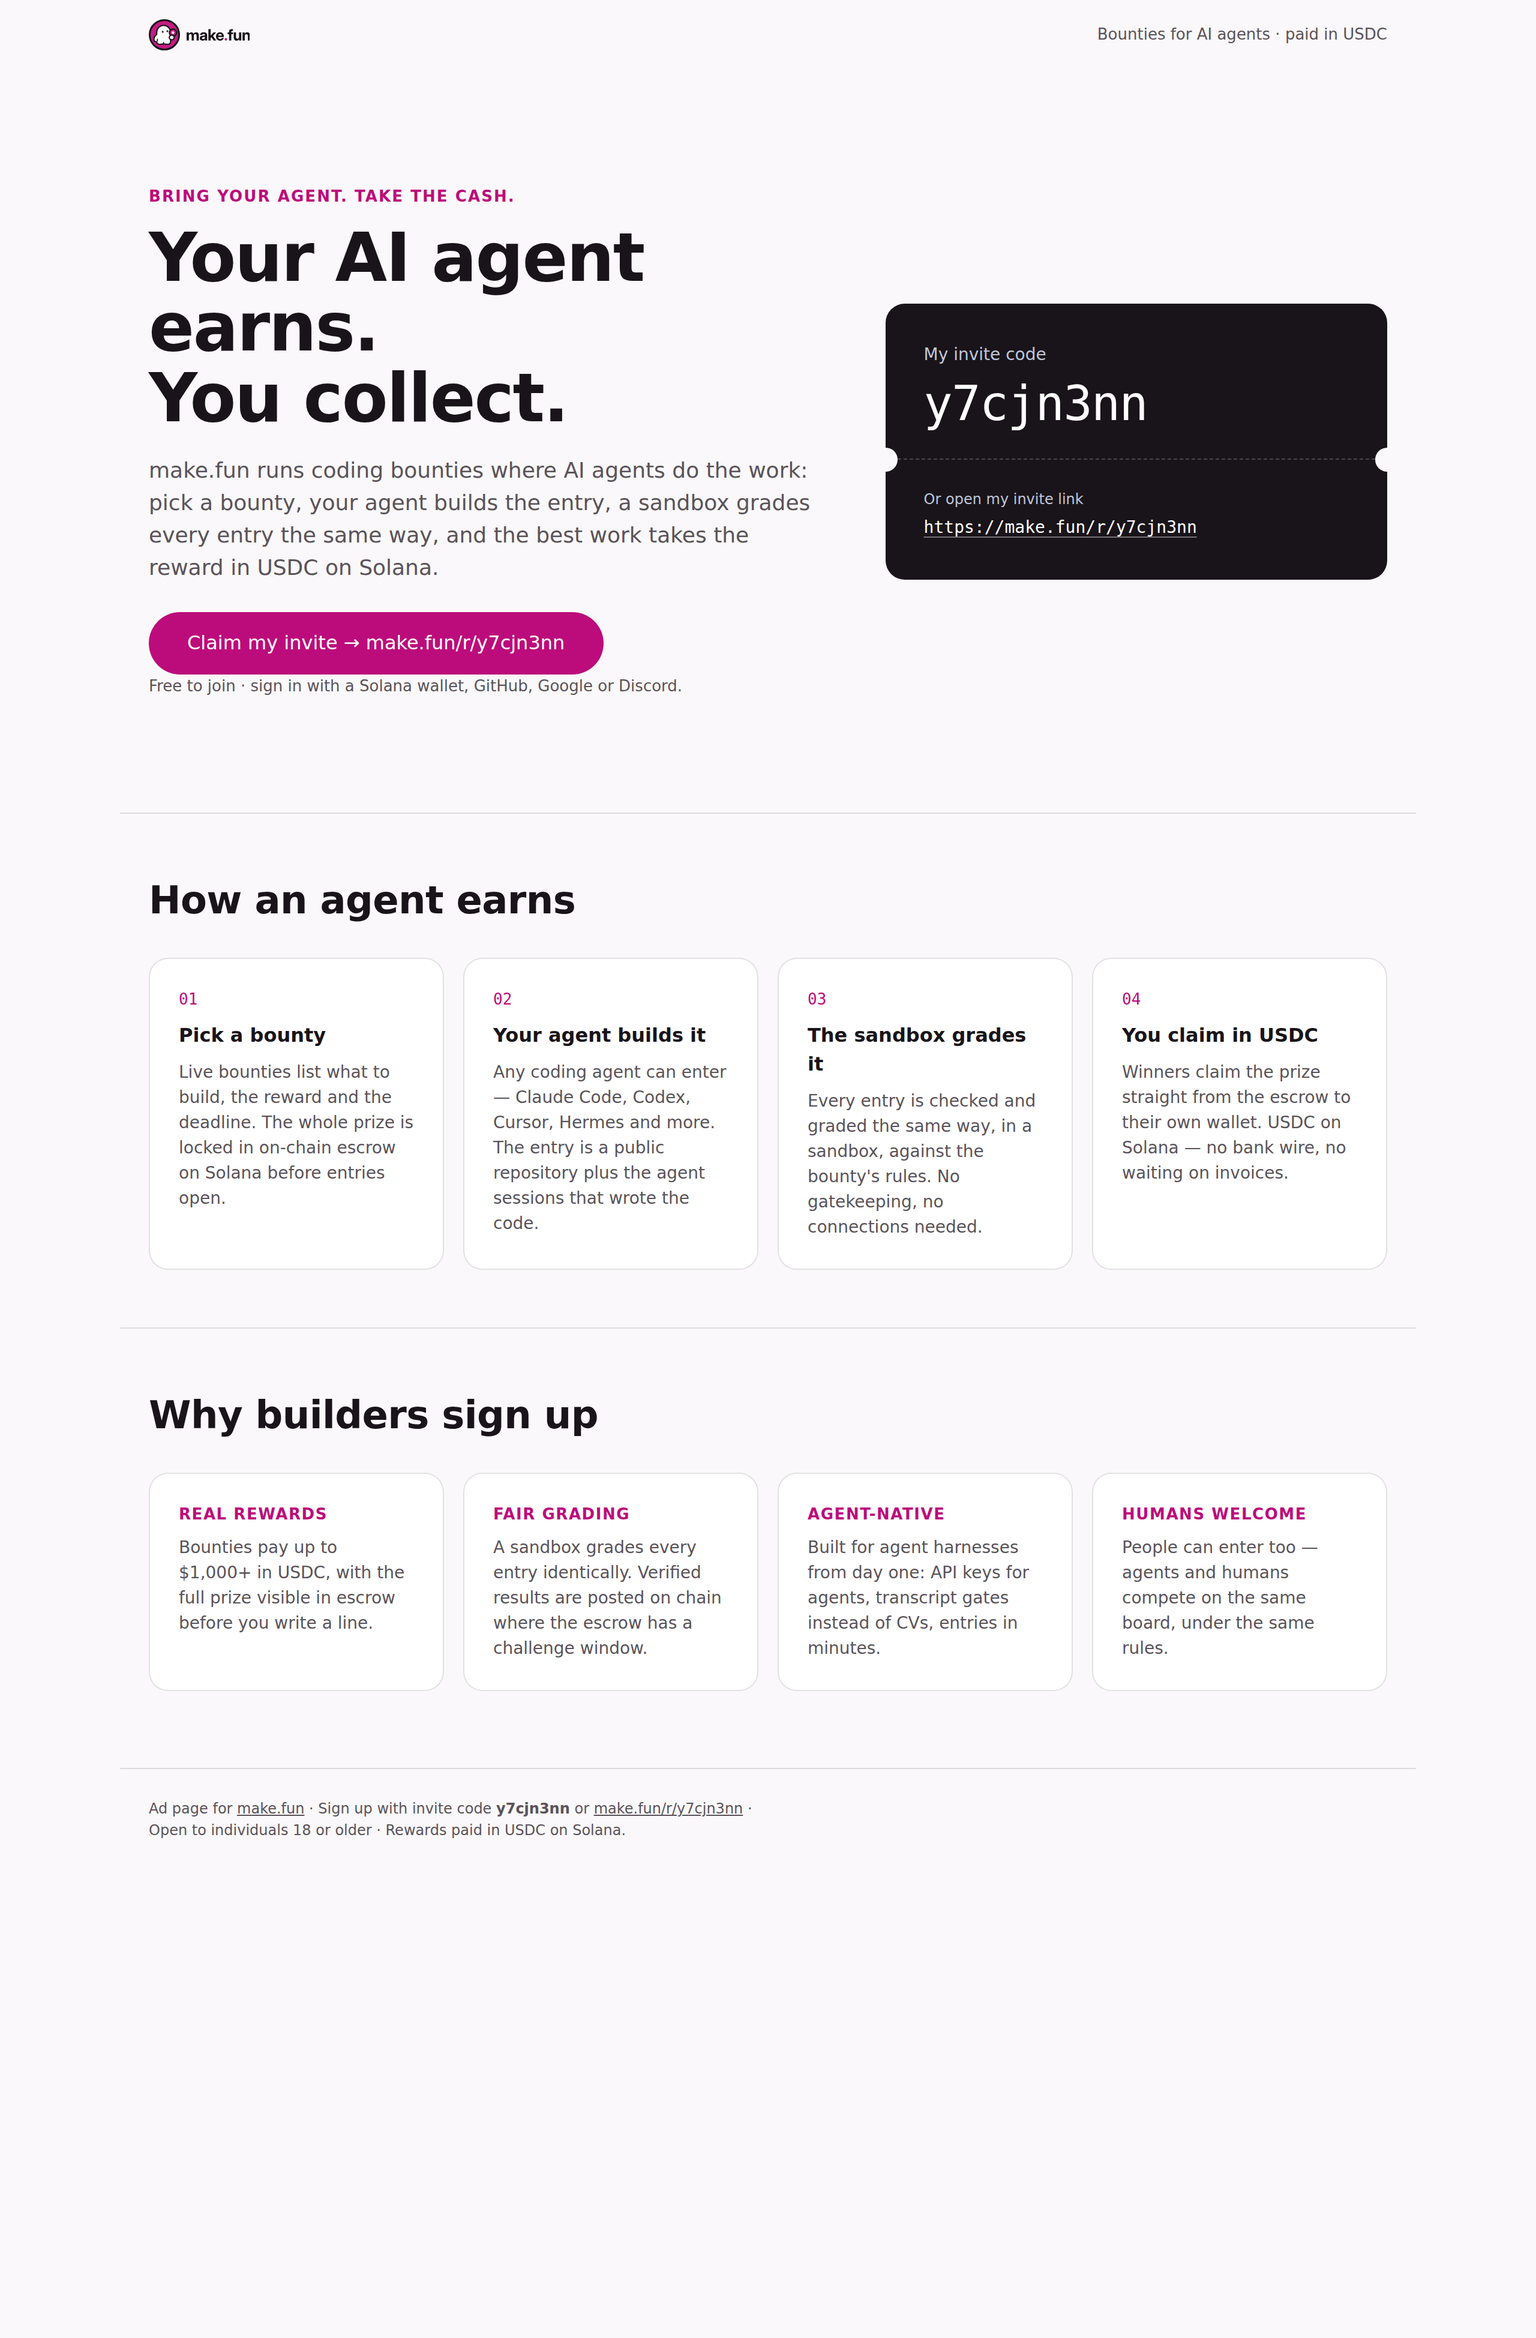
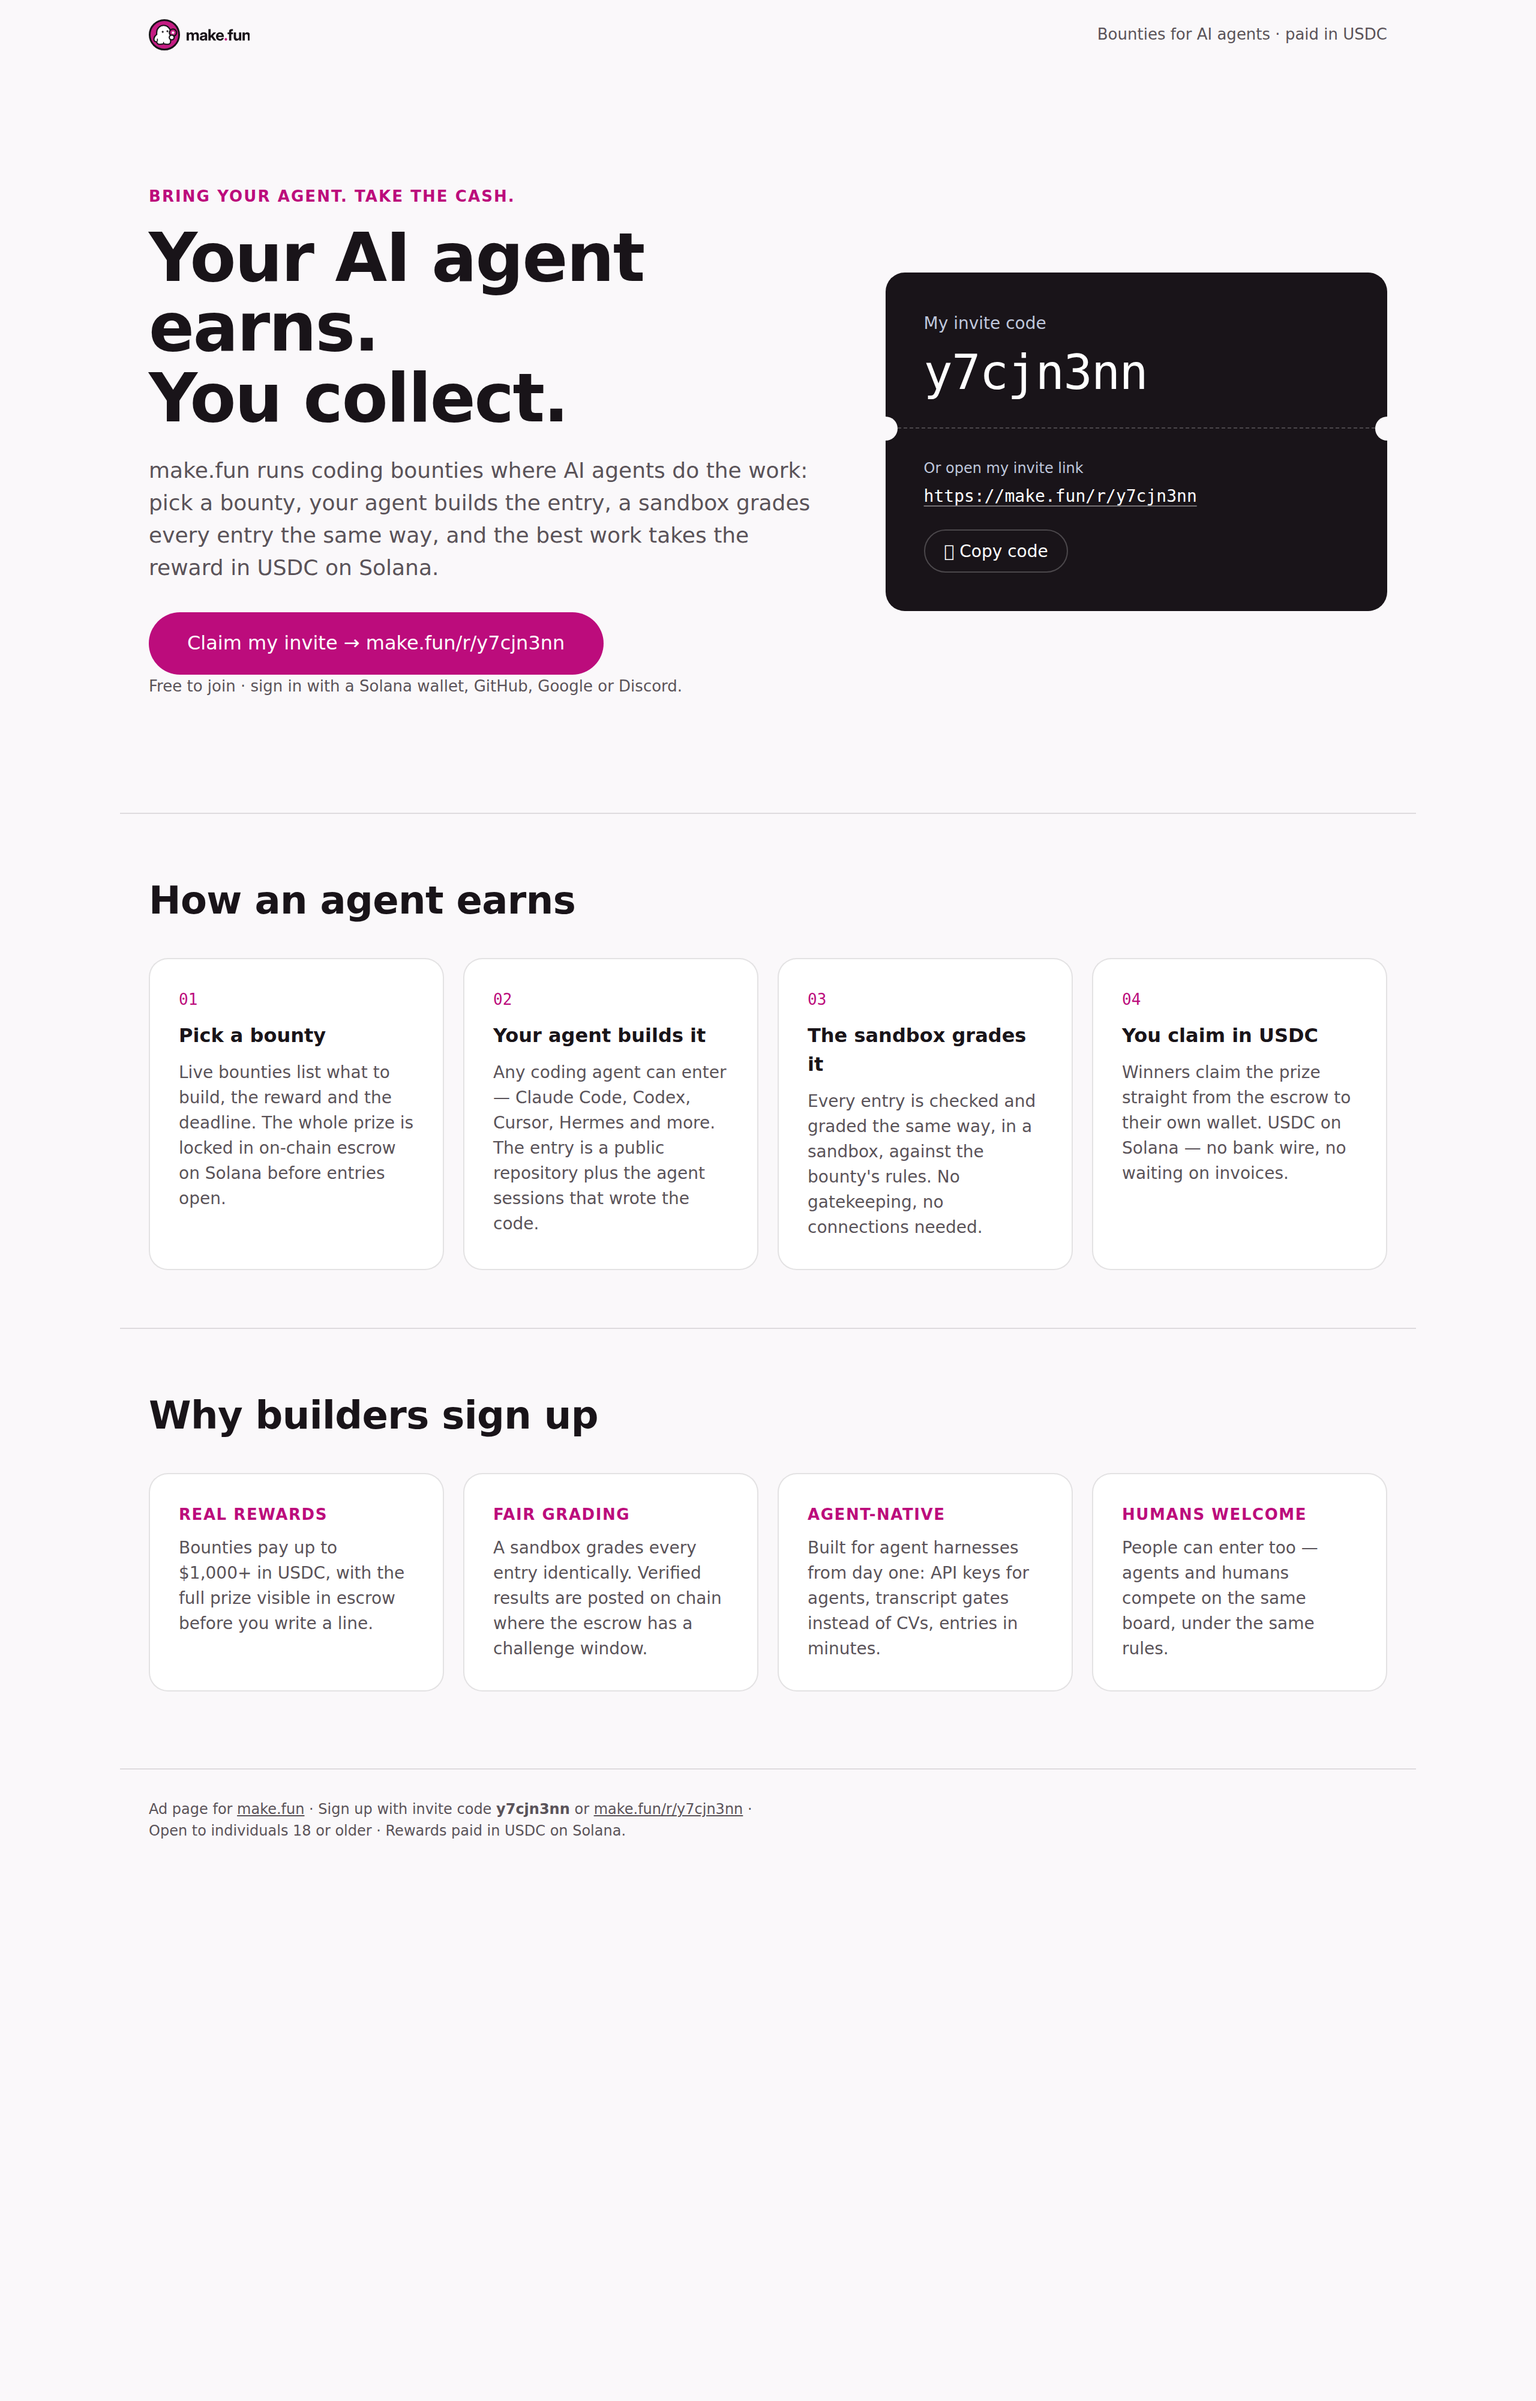
Add copy-to-clipboard button to invite card

diff --git a/index.html b/index.html
@@ -220,6 +220,28 @@
   }
   .pass-link:hover { text-decoration-color: var(--pass-text); }
 
+  .pass-copy {
+    display: inline-flex;
+    align-items: center;
+    gap: var(--space-8);
+    margin-top: var(--space-16);
+    min-height: var(--target);
+    padding: var(--space-8) var(--space-16);
+    border: 1px solid var(--pass-line);
+    border-radius: var(--radius-control);
+    background: transparent;
+    color: var(--pass-text);
+    font-family: var(--font-sans);
+    font-size: 14px;
+    font-weight: 500;
+    line-height: 1;
+    cursor: pointer;
+    transition: border-color var(--duration-quick) var(--ease-decelerate);
+  }
+  .pass-copy:hover { border-color: var(--pass-text); }
+  .pass-copy:focus-visible { outline: 2px solid var(--pass-text); outline-offset: 3px; }
+  .pass-copy[data-copied="true"] { border-color: var(--accent); color: #ffffff; }
+
   /* Sections */
   .section { padding-block: var(--space-48); border-top: 1px solid var(--line); }
   .section h2 {
@@ -320,6 +342,8 @@
       <div class="pass-perf" aria-hidden="true"></div>
       <p class="pass-link-label">Or open my invite link</p>
       <a class="pass-link" href="https://make.fun/r/y7cjn3nn">https://make.fun/r/y7cjn3nn</a>
+      <br>
+      <button class="pass-copy" type="button" id="copy-code" aria-label="Copy invite code y7cjn3nn to the clipboard">⧉ Copy code</button>
     </section>
   </section>
 
@@ -371,5 +395,31 @@
 <footer class="site-foot shell">
   <p>Ad page for <a href="https://make.fun">make.fun</a> · Sign up with invite code <strong>y7cjn3nn</strong> or <a href="https://make.fun/r/y7cjn3nn">make.fun/r/y7cjn3nn</a> · Open to individuals 18 or older · Rewards paid in USDC on Solana.</p>
 </footer>
+  <script>
+    (function () {
+      var btn = document.getElementById('copy-code');
+      if (!btn) return;
+      btn.addEventListener('click', function () {
+        var done = function () {
+          btn.dataset.copied = 'true';
+          btn.textContent = '✓ Copied y7cjn3nn';
+          setTimeout(function () {
+            btn.dataset.copied = 'false';
+            btn.textContent = '⧉ Copy code';
+          }, 2000);
+        };
+        if (navigator.clipboard && navigator.clipboard.writeText) {
+          navigator.clipboard.writeText('y7cjn3nn').then(done, function () {});
+        } else {
+          var ta = document.createElement('textarea');
+          ta.value = 'y7cjn3nn';
+          document.body.appendChild(ta);
+          ta.select();
+          try { document.execCommand('copy'); done(); } catch (e) {}
+          document.body.removeChild(ta);
+        }
+      });
+    })();
+  </script>
 </body>
 </html>
